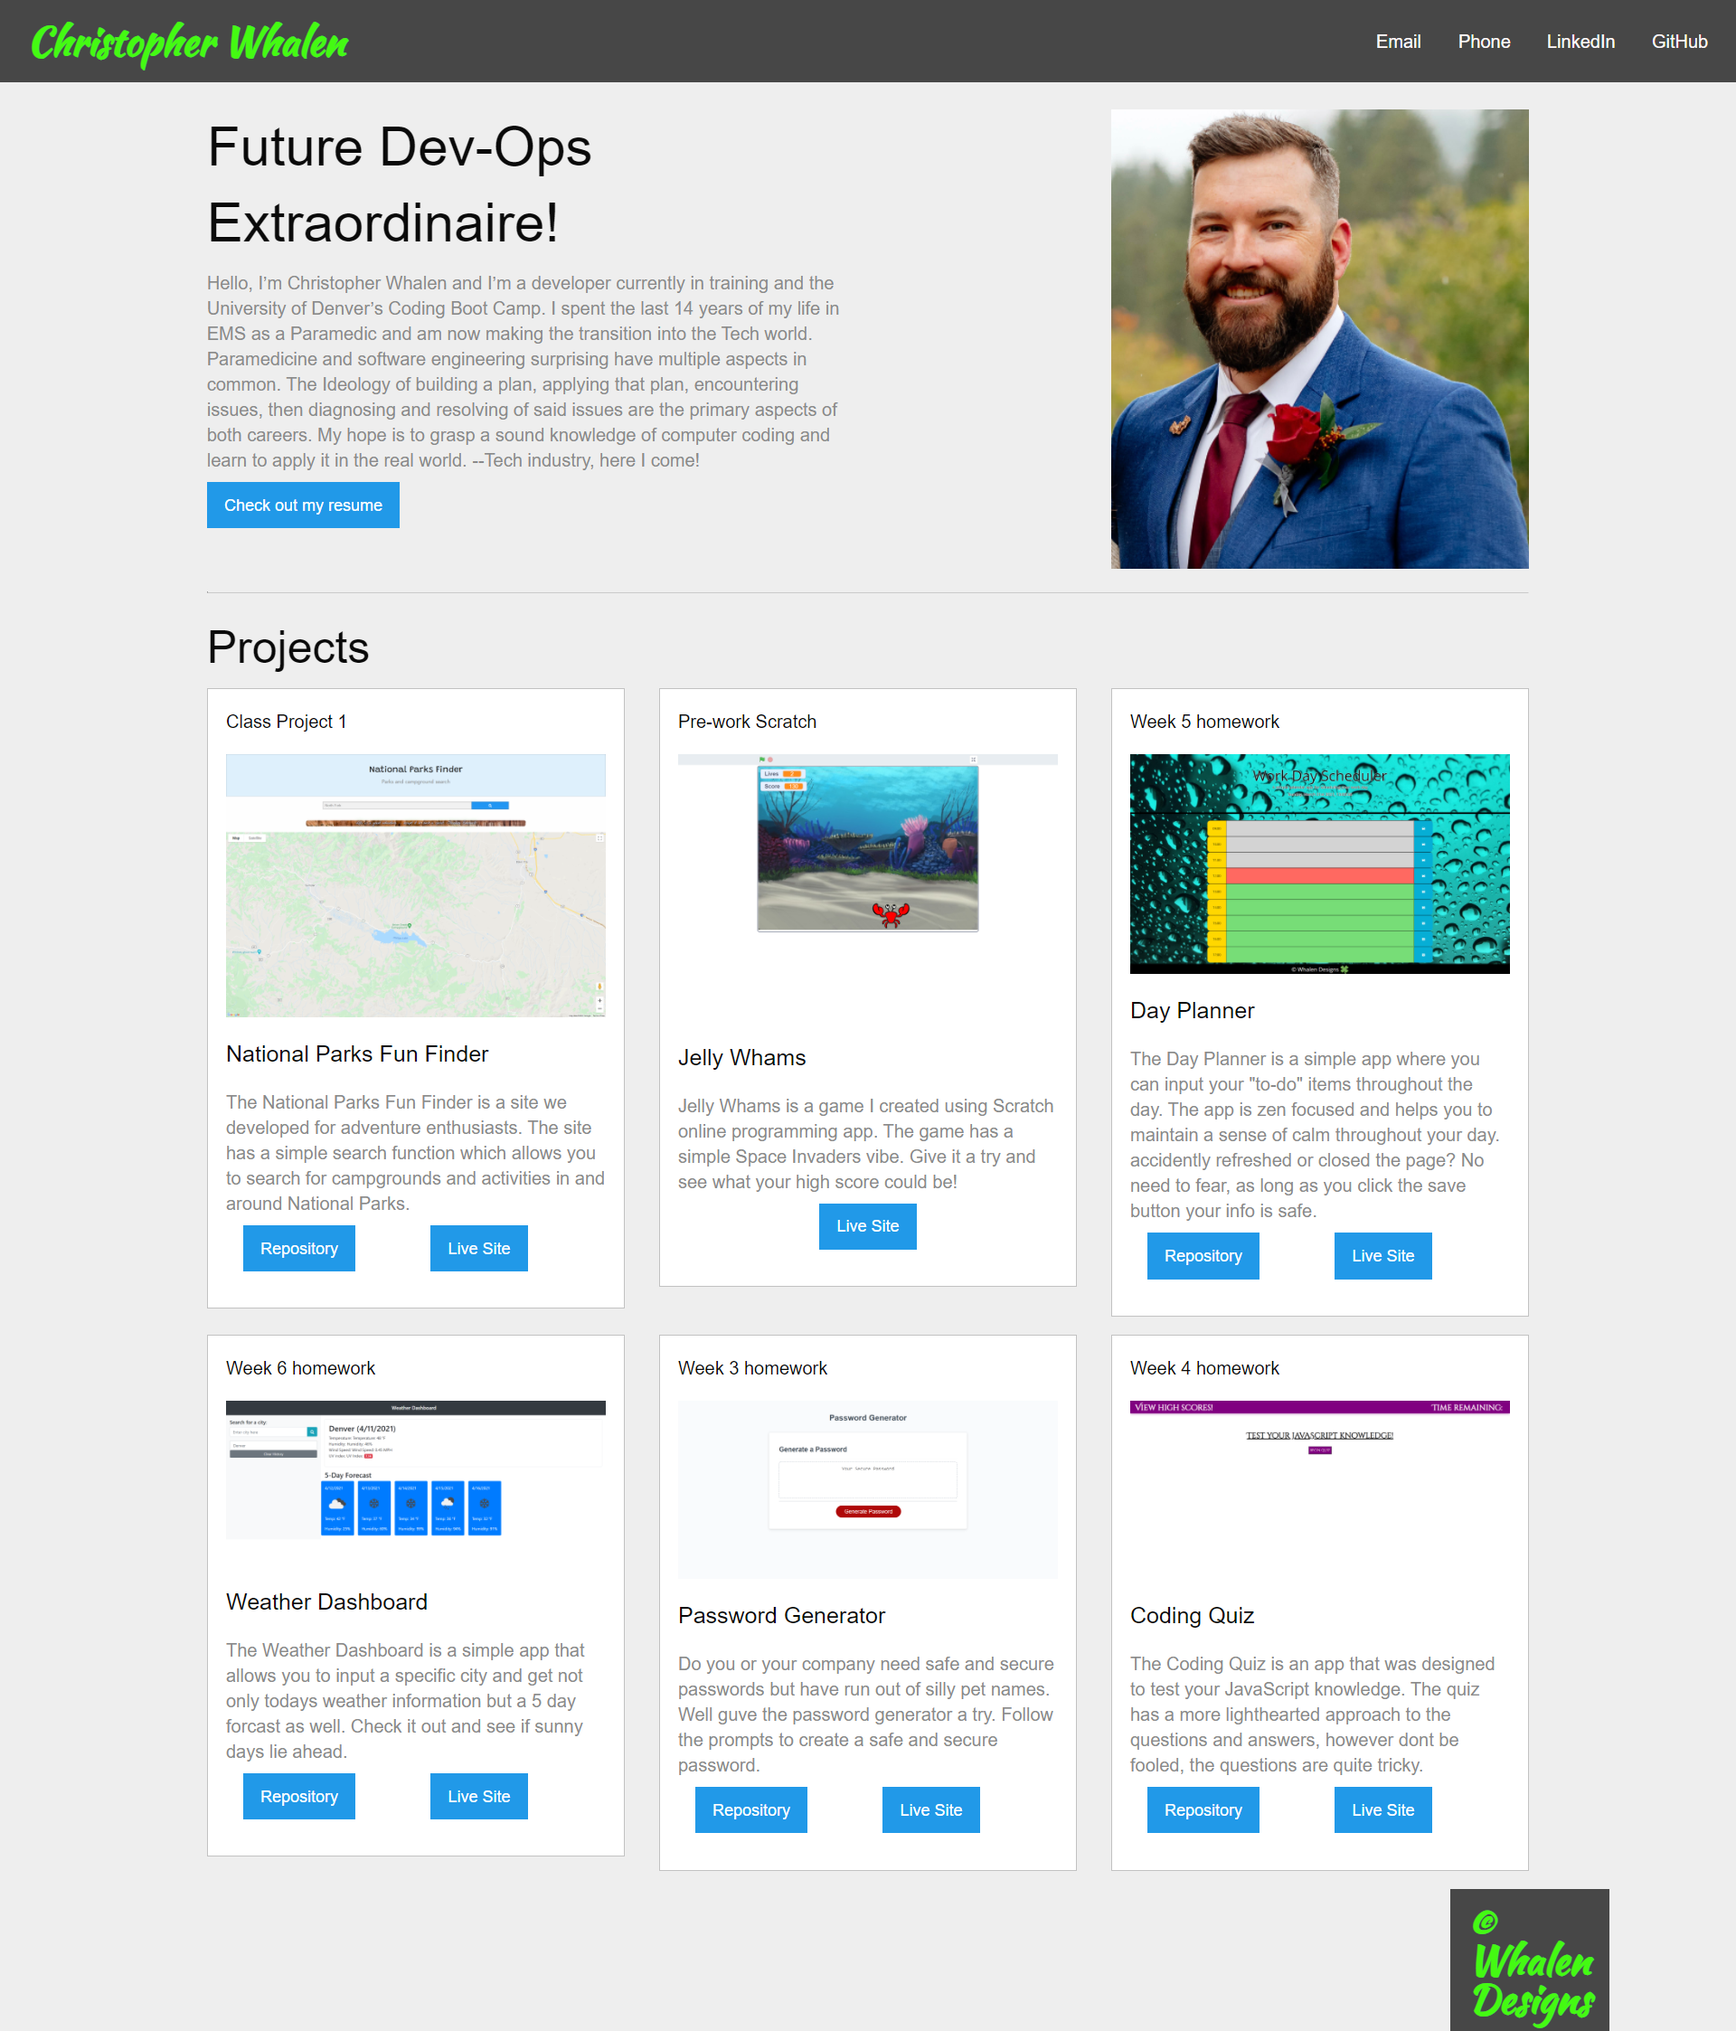
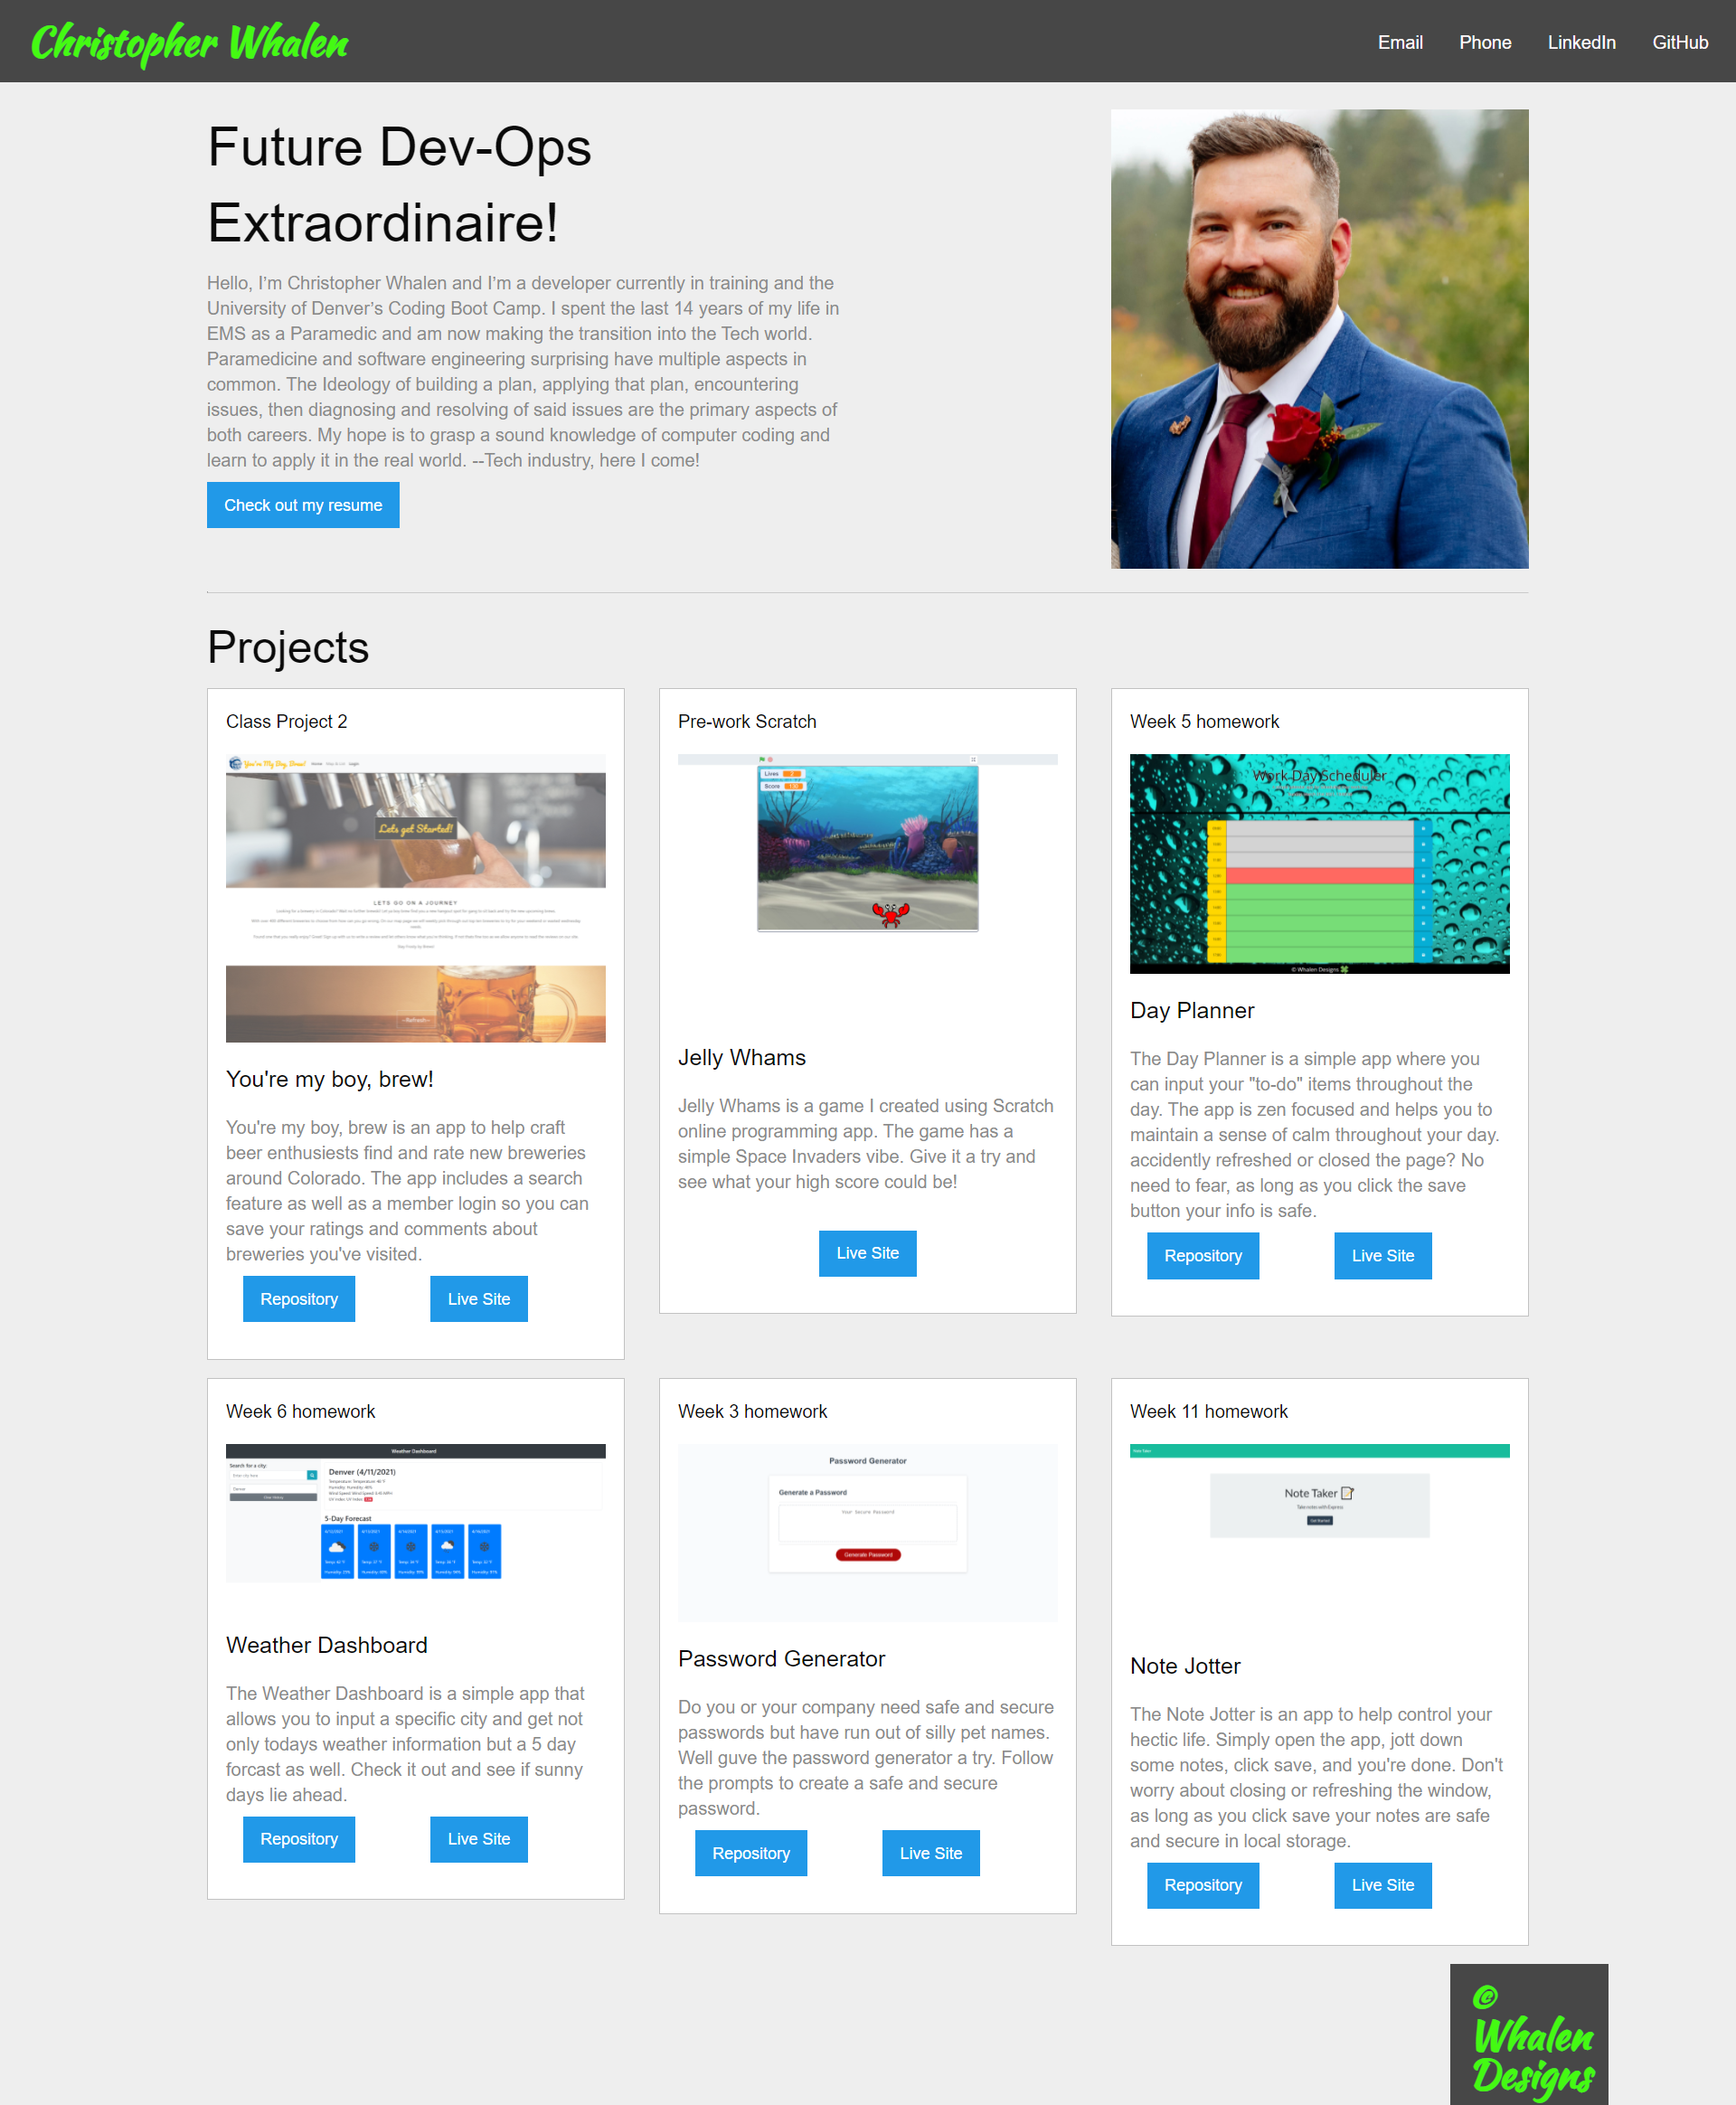
Updates added

diff --git a/index.html b/index.html
@@ -55,18 +55,18 @@
 <div class="row small-up-1 medium-up-2 large-up-3">
   <div class="column">
     <div class="callout">
-      <p>Class Project 1</p>
-      <p><img src="assets/np-finder.png" alt="Class project screenshot"></p>
-      <p class="lead">National Parks Fun Finder</p>
-      <p class="subheader">The National Parks Fun Finder is a site we developed for adventure enthusiasts. The site has a simple search function which allows you to search for campgrounds and activities in and around National Parks.</p>
-      <a class="column" href="https://github.com/CobaltFrostfish/NP-fun-finder"><button class="button float-center">Repository</button></a>
-      <a href="https://cobaltfrostfish.github.io/NP-fun-finder/"><button class="button float-center">Live Site</button></a>
+      <p>Class Project 2</p>
+      <p><img src="assets/boy-brew-screenshot.png" alt="Class project screenshot"></p>
+      <p class="lead">You're my boy, brew!</p>
+      <p class="subheader">You're my boy, brew is an app to help craft beer enthusiests find and rate new breweries around Colorado. The app includes a search feature as well as a member login so you can save your ratings and comments about breweries you've visited.</p>
+      <a class="column" href="https://github.com/CobaltFrostfish/You-re-My-Boy-Brew"><button class="button float-center">Repository</button></a>
+      <a href="https://afternoon-sands-66827.herokuapp.com/"><button class="button float-center">Live Site</button></a>
     </div>
   </div>
   <div class="column">
     <div class="callout">
       <p>Pre-work Scratch</p>
-      <p><img src="assets/jelly.png" alt="image of a planet called Pegasi B"></p>
+      <p><img src="assets/jelly.png" alt="scratch game"></p>
       <p class="lead">Jelly Whams</p>
       <p class="subheader">Jelly Whams is a game I created using Scratch online programming app. The game has a simple Space Invaders vibe. Give it a try and see what your high score could be!</p><br>
       <a href="https://scratch.mit.edu/projects/485381782/"><button class="button float-center">Live Site</button></a>
@@ -75,7 +75,7 @@
   <div class="column">
     <div class="callout">
       <p>Week 5 homework</p>
-      <p><img src="assets/planner-screenshot.png" alt="image of a planet called Pegasi B"></p>
+      <p><img src="assets/planner-screenshot.png" alt="day planner"></p>
       <p class="lead">Day Planner</p>
       <p class="subheader">The Day Planner is a simple app where you can input your "to-do" items throughout the day. The app is zen focused and helps you to maintain a sense of calm throughout your day. accidently refreshed or closed the page? No need to fear, as long as you click the save button your info is safe.</p>
       <a class="column" href="https://github.com/CobaltFrostfish/fancy-day-planner"><button class="button float-center">Repository</button></a>
@@ -85,7 +85,7 @@
   <div class="column">
     <div class="callout">
       <p>Week 6 homework</p>
-      <p><img src="assets/weather-dash.png" alt="image of a planet called Pegasi B"></p>
+      <p><img src="assets/weather-dash.png" alt="Oh the weather outside is weather"></p>
       <p class="lead">Weather Dashboard</p>
       <p class="subheader">The Weather Dashboard is a simple app that allows you to input a specific city and get not only todays weather information but a 5 day forcast as well. Check it out and see if sunny days lie ahead.</p>
       <a class="column" href="https://github.com/CobaltFrostfish/weather-dashboard"><button class="button float-center">Repository</button></a>
@@ -95,7 +95,7 @@
   <div class="column">
     <div class="callout">
       <p>Week 3 homework</p>
-      <p><img src="assets/passgen-screenshot.png" alt="image of a planet called Pegasi B"></p>
+      <p><img src="assets/passgen-screenshot.png" alt="password generator"></p>
       <p class="lead">Password Generator</p>
       <p class="subheader">Do you or your company need safe and secure passwords but have run out of silly pet names. Well guve the password generator a try. Follow the prompts to create a safe and secure password.</p>
       <a class="column" href="https://github.com/CobaltFrostfish/password_generator"><button class="button float-center">Repository</button></a>
@@ -104,12 +104,12 @@
   </div>
   <div class="column">
     <div class="callout">
-      <p>Week 4 homework</p>
-      <p><img src="assets/code-quiz.png" alt="image of a planet called Pegasi B"></p>
-      <p class="lead">Coding Quiz</p>
-      <p class="subheader">The Coding Quiz is an app that was designed to test your JavaScript knowledge. The quiz has a more lighthearted approach to the questions and answers, however dont be fooled, the questions are quite tricky.</p>
-      <a class="column" href="https://github.com/CobaltFrostfish/coding-quiz"><button class="button float-center">Repository</button></a>
-      <a href="https://cobaltfrostfish.github.io/coding-quiz/"><button class="button float-center">Live Site</button></a>
+      <p>Week 11 homework</p>
+      <p><img src="assets/notes-screenshot-home.png" alt="image of a planet called Pegasi B"></p>
+      <p class="lead">Note Jotter</p>
+      <p class="subheader">The Note Jotter is an app to help control your hectic life. Simply open the app, jott down some notes, click save, and you're done. Don't worry about closing or refreshing the window, as long as you click save your notes are safe and secure in local storage.</p>
+      <a class="column" href="https://github.com/CobaltFrostfish/note-jotter"><button class="button float-center">Repository</button></a>
+      <a href="https://fierce-ocean-49311.herokuapp.com/"><button class="button float-center">Live Site</button></a>
     </div>
   </div>
 
